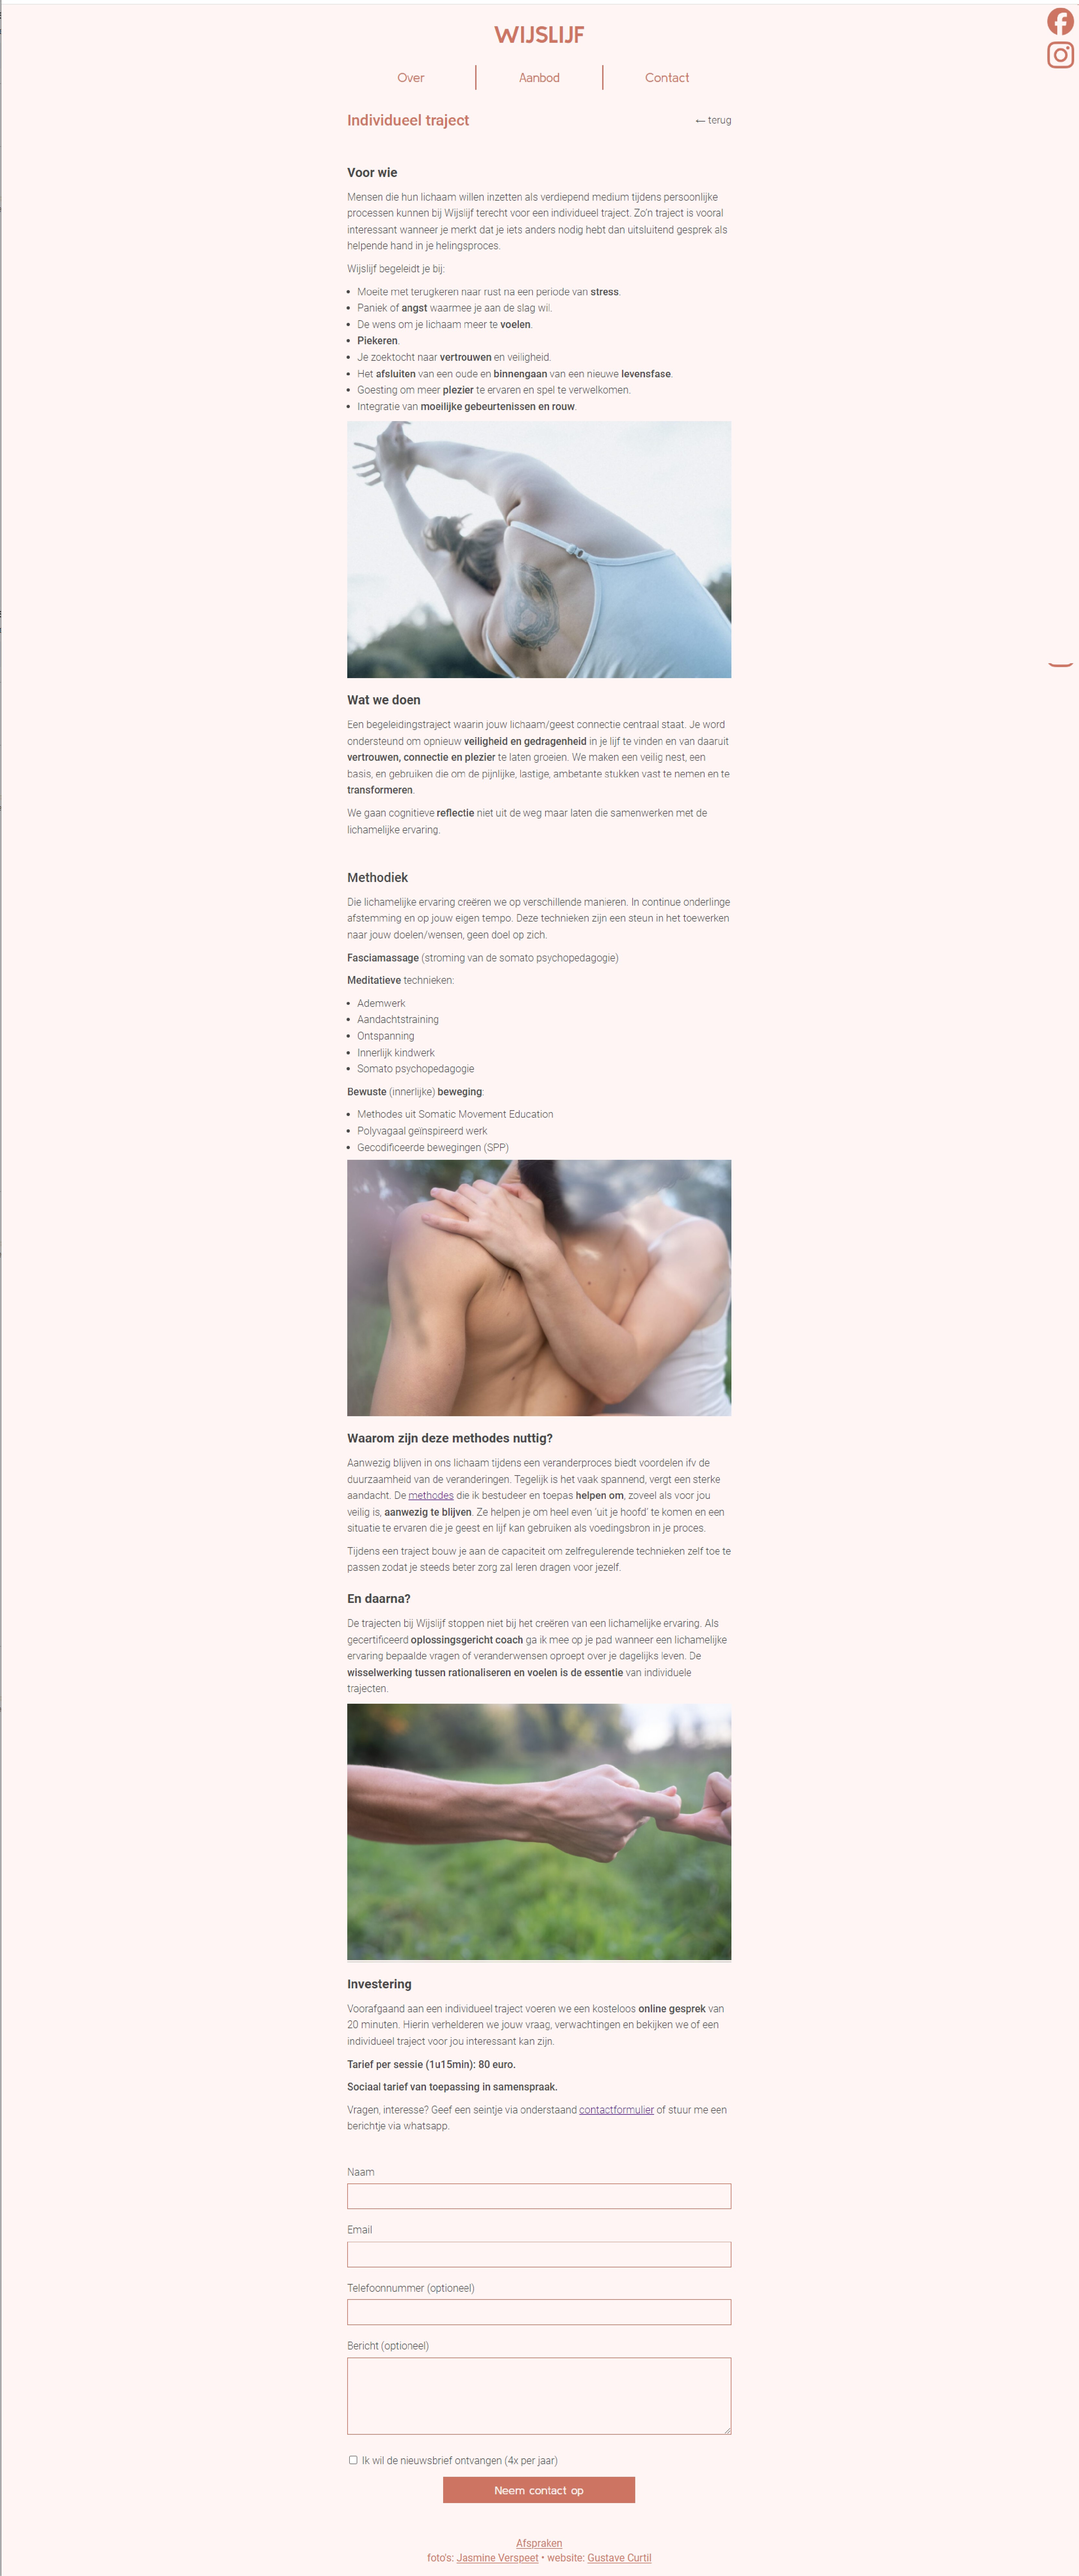
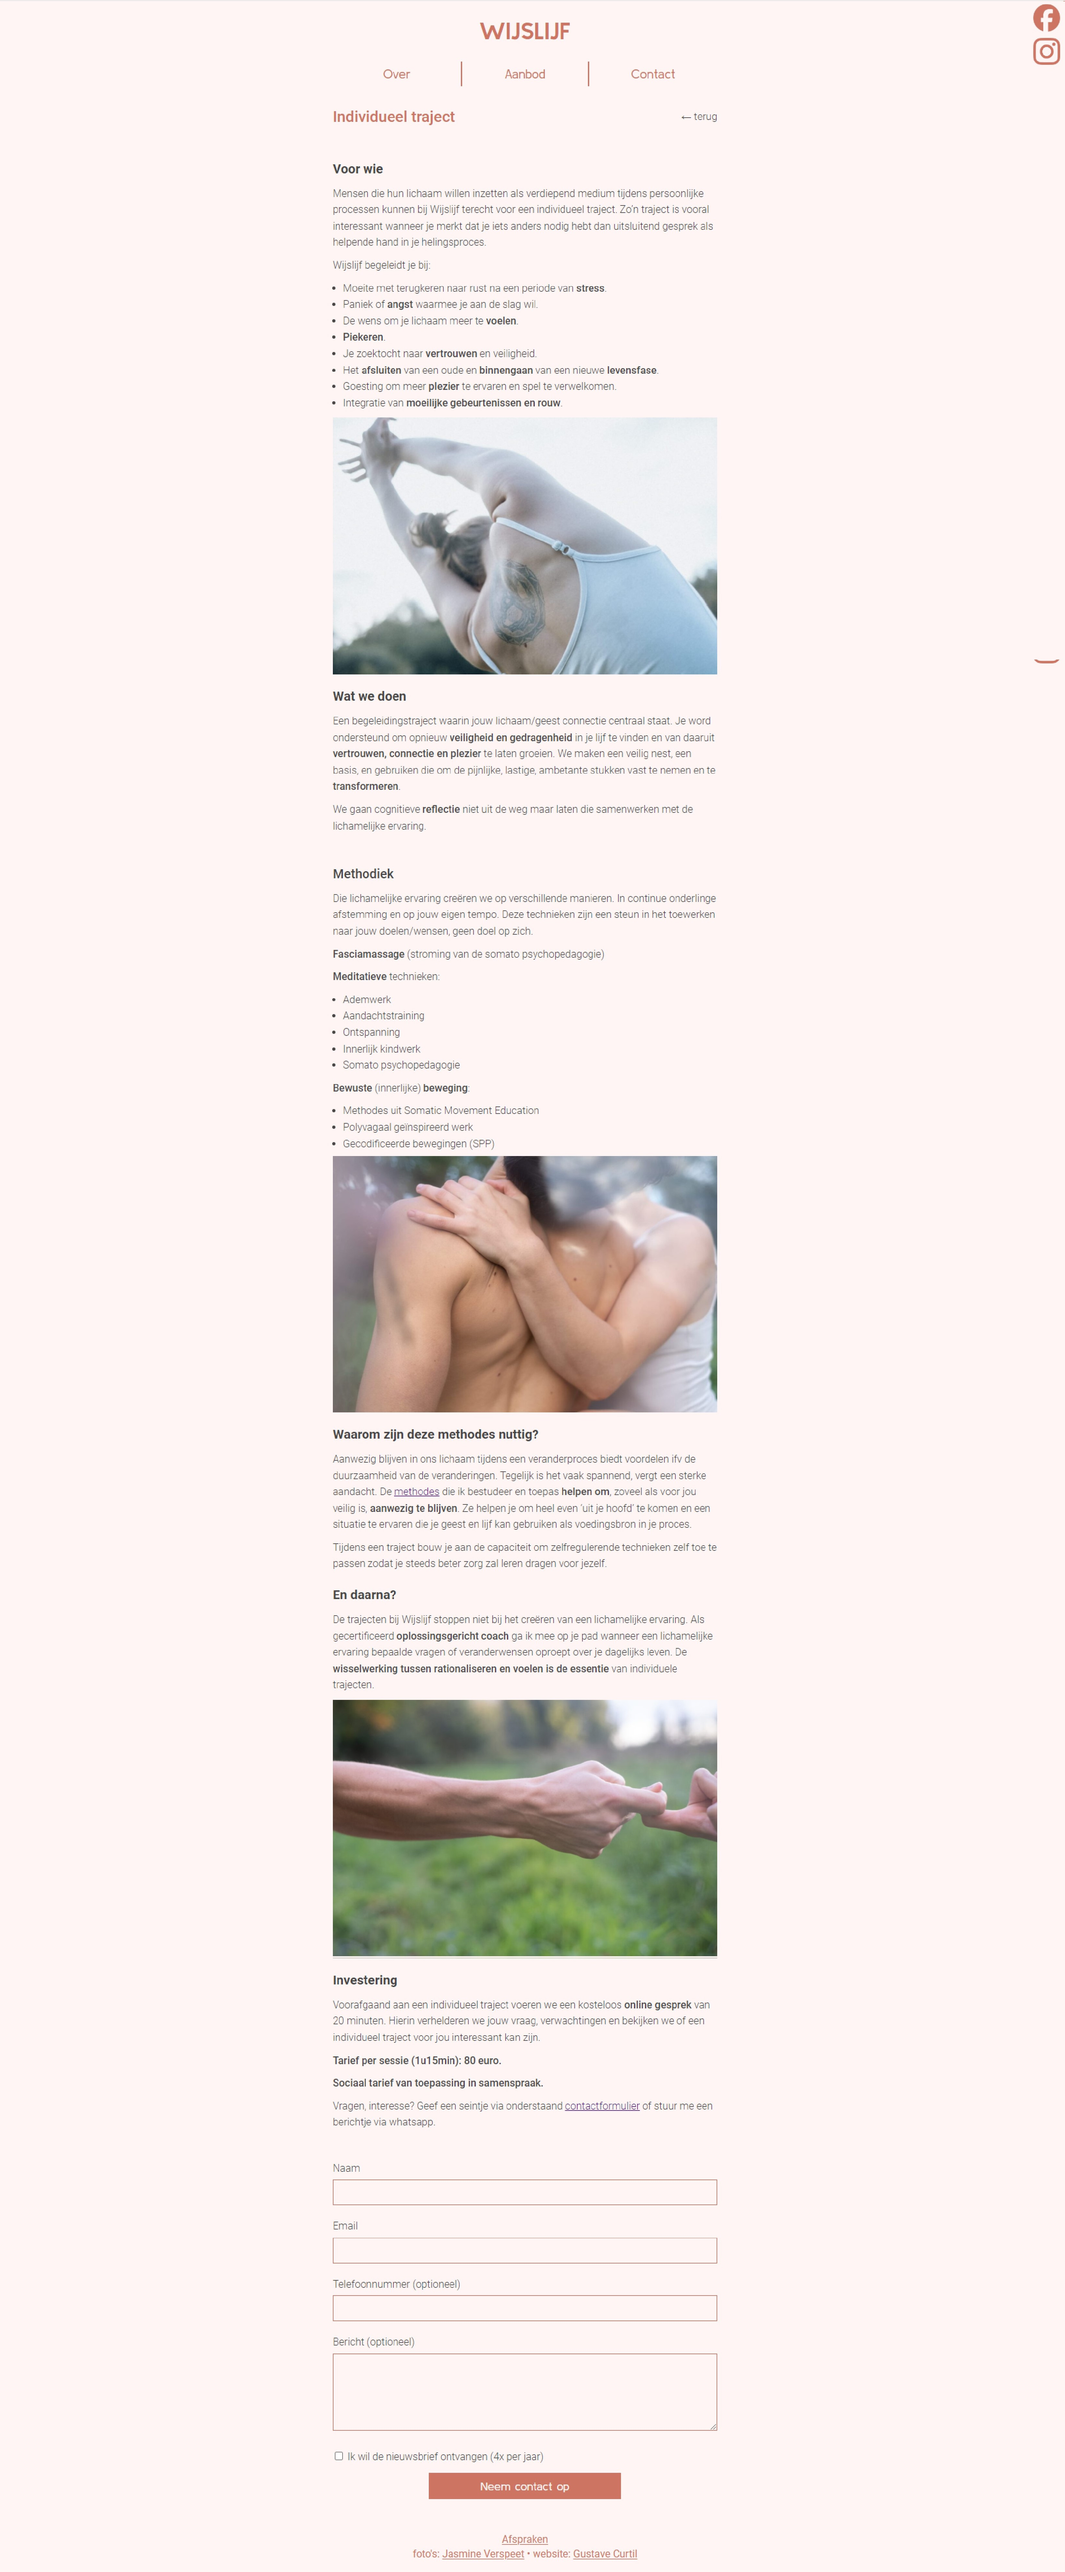
meta seo data toegevoegd

diff --git a/index.html b/index.html
@@ -5,7 +5,8 @@
     <meta name="viewport" content="width=device-width, initial-scale=1.0">
     <link rel="stylesheet" href="style.css">
     <script src="script.js" defer></script>
-    <title>Browser Simulator</title>
+    <meta name="description" content="Bien websites voor mensen en organisaties die een positieve impact proberen teweeg te brengen.">
+    <title>Kurtgustil</title>
 </head>
 <body>
     <header>
@@ -38,7 +39,7 @@
     <main id="websites" dir="ltr">
         <div class="website">
             <a href="www.wijslijf.com" target="_blank">www.wijslijf.com</a>
-            <div class="powser">
+            <div class="browser">
                 <div class="bar">
                     <div class="arrows">
                         <svg width="7" height="4" viewBox="0 0 7 4" fill="none" xmlns="http://www.w3.org/2000/svg">

diff --git a/style.css b/style.css
@@ -130,7 +130,7 @@ footer a {
 
 #huur_mij > * {
     width: 95%;
-    max-width: 500px;
+    max-width: 600px;
 }
 
 
@@ -196,7 +196,7 @@ button {
     align-items: start;
 
     width: 95%;
-    max-width: 900px;
+    max-width: 600px;
     height: 100%;
 }
 
@@ -212,8 +212,6 @@ button {
 
 .browser {
     width: 100%;
-
-    background-color: #C65252;
     border: 0.1px solid var(--dark-pink);
 }
 
